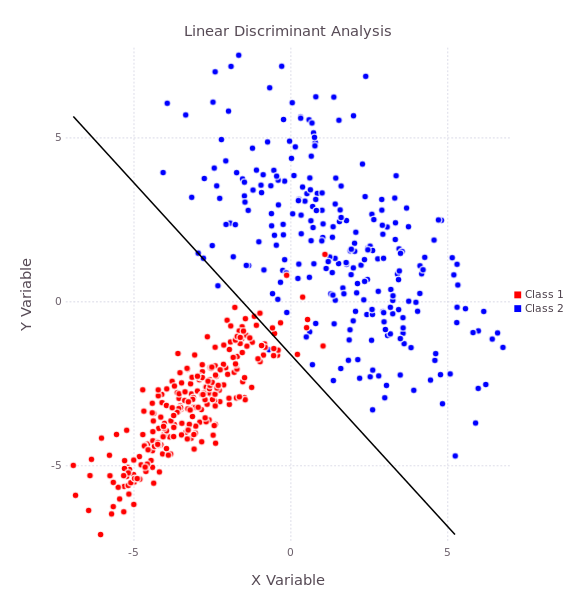
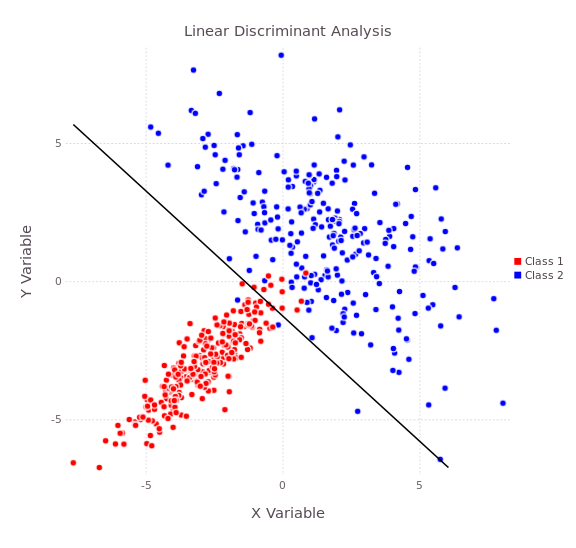
Added visualizations for CDA and quadratic LDA

diff --git a/doc/index.rst b/doc/index.rst
@@ -79,7 +79,7 @@ Quadratic Discriminant Analysis (QDA)
 
 Quadratic Discriminant Analysis does not make the simplifying assumption that
 each class shares the same covariance matrix. This results in a quadratic
-classifier in :math:`mathbf{x}`:
+classifier in :math:`\mathbf{x}`:
 
 .. math::
 
@@ -102,12 +102,52 @@ Canonical Discriminant Analysis (CDA)
 -------------------------------------
 
 Canonical discriminant analysis expands upon linear discriminant analysis by
-noting that the class centroids lie in a :math:`k-1` dimensional subspace of the
-:math:`p` dimensions of the data.
+noting that the class centroids lie in a :math:`c-1` dimensional subspace of the
+:math:`p` dimensions of the data where :math:`c` is the number of classes. 
+Defining the between-class covariance matrix:
+
+.. math::
+
+    \Sigma_b = \frac{1}{c} \sum_{k=1}^{c} (\mu_k - \mu)(\mu_k - \mu)^{\intercal}
+
+Canonical discriminant analysis then optimizes the generalized Rayleigh quotient
+of the between-class covariance and the within-class covariance to solve for 
+the optimal axes to describe class separability:
+
+.. math::
+
+    \operatorname{arg\,max}_{\mathbf{w}}\frac{\mathbf{w}^{\intercal}\Sigma_b\mathbf{w}}{\mathbf{w}^{\intercal}\Sigma\mathbf{w}}
+
+For two class LDA, the canonical coordinate is perpendicular to the separating
+hyperplane produced by the decision boundary. For the LDA model above, the
+dimensionality is reduced from 2 to 1. The following image shows the resulting
+distribution of points relative to the canonical coordinate:
+
+.. image:: visualization/cda.png
+
 
 Using LDA to do QDA
 -------------------
 
+A quadratic boundary using LDA can be generated by squaring each variable and by
+producing all the interaction terms. For two variables :math:`x` and :math:`y`,
+this is simply:
+
+.. math::
+
+    x + y + x^2 + y^2 + xy
+
+The transformed variables may be used as inputs for the LDA model. This results
+in a quadratic decision boundary:
+
+.. image:: visualization/qlda.png
+
+Note that this boundary does not correspond to the same boundary produced by
+QDA.
 
 Computational Considerations
 ----------------------------
+
+
+Interface
+---------
